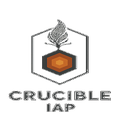
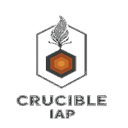
chore: update brand assets
- assets/: add full logo, icon, and favicon source files (source of truth)
- ui/static/mark-dark.png: replaced with new icon (CrucibleIAP_icon_64)
- ui/static/logo-dark.png: replaced with new full logo (master transparent)
- ui/static/favicon.ico: added multi-size ICO (replaces favicon.png)
- app.html: switch favicon ref from .png to .ico
- README.md: point logo image to assets/ (source of truth)

Changed region(s): [[0.0625, 0.125, 0.875, 0.9375]]

diff --git a/README.md b/README.md
@@ -1,6 +1,6 @@
 # Crucible IAP
 
-![Crucible IAP](assets/CrucibleIAP_master_transparent.png)
+![Crucible IAP](assets/CrucibleIAP_master_TRANSPARENT.png)
 
 **Crucible IAP - Infrastructure Automation Platform** — a self-hosted, privacy-first alternative to Spacelift.
 
